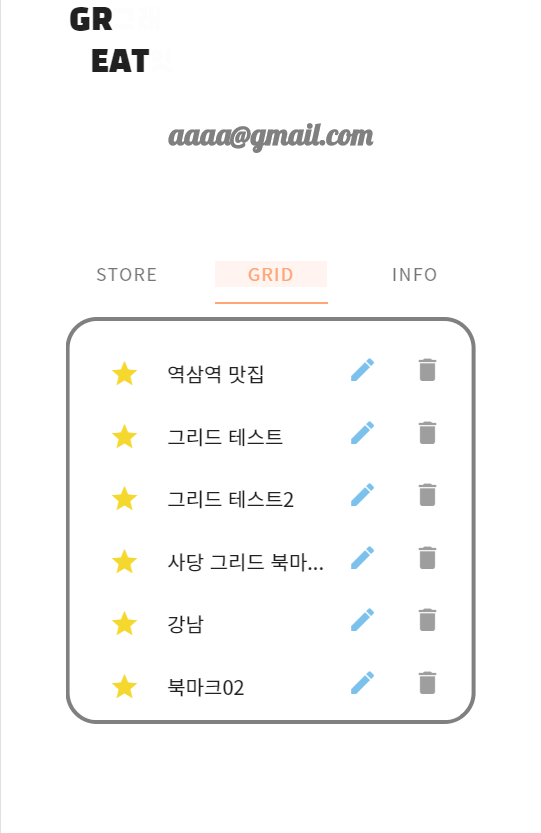
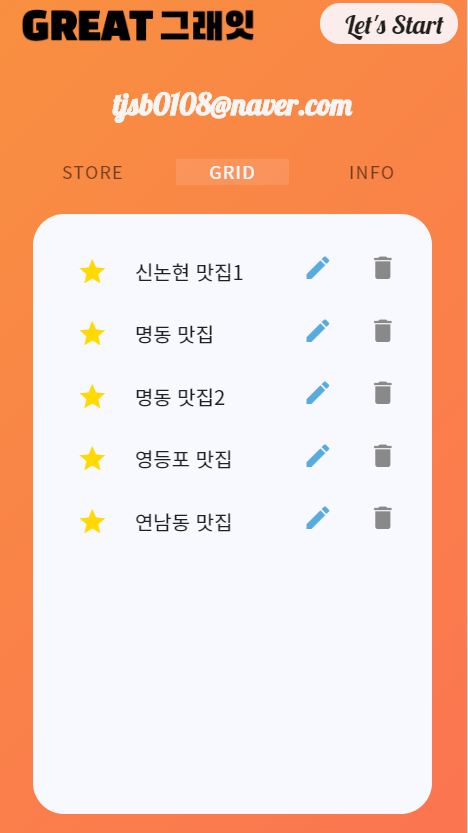
Mod Mobile mypage css Mod README.md mypage screen shots

diff --git a/front/src/assets/style/css/mypageStyle.css b/front/src/assets/style/css/mypageStyle.css
@@ -43,8 +43,8 @@
   align-content: center;
 }
 .name-container {
-  padding-top: 5vh;
-  margin-bottom: 7vh;
+  padding-top: 9vh;
+  margin-bottom: 5vh;
   text-align: center;
 }
 .tab-container {
@@ -504,14 +504,16 @@
     width: 80%;
   }
   .name-container{
-    margin-top: 15px;
-    margin-bottom:1px;
+    margin-top: 1vh;
+    margin-bottom:1vh;
   }
   .box-container {
+    height:480px;
     margin-left: 2.5%;
     margin-right: 2.5%;
   }
   .store-box-container{
+    height:480px;
     margin-left: 2.5%;
     margin-right: 2.5%;
     
@@ -523,8 +525,9 @@
 
   /*info tab*/
   .user-details-with-label label {
-    left: 8%;
-    font-size: 13px;
+    left: 2%;
+    font-size: 14px;
+    
   }
   .edit-with-label label {
     font-size: 13px;
@@ -594,11 +597,15 @@
     margin-top: 3px;
     margin-bottom: 3px;
 
-    width: 110px;
-    height:110px;
+    width: 111px;
+    height:111px;
   }
   .hvrbox .hvrbox-layer_bottom{
-    width:110px;
-    height:110px
+    width:111px;
+    height:111px
+  }
+  .hvrbox .hvrbox-text {
+    font-size: 9px;
+  
   }
 }

diff --git a/README.md b/README.md
@@ -298,6 +298,9 @@
 
 <img src="/img/pages/mmypage.PNG" alt="mmypage" style="zoom:70%;" />
 
+<img src="/img/pages/mmypage2.PNG" alt="mmypage" style="zoom:70%;" />
+
+<img src="/img/pages/mmypage3.PNG" alt="mmypage" style="zoom:70%;" />
 #### Grid
 
 ![grid1](/img/pages/grid1.PNG)
